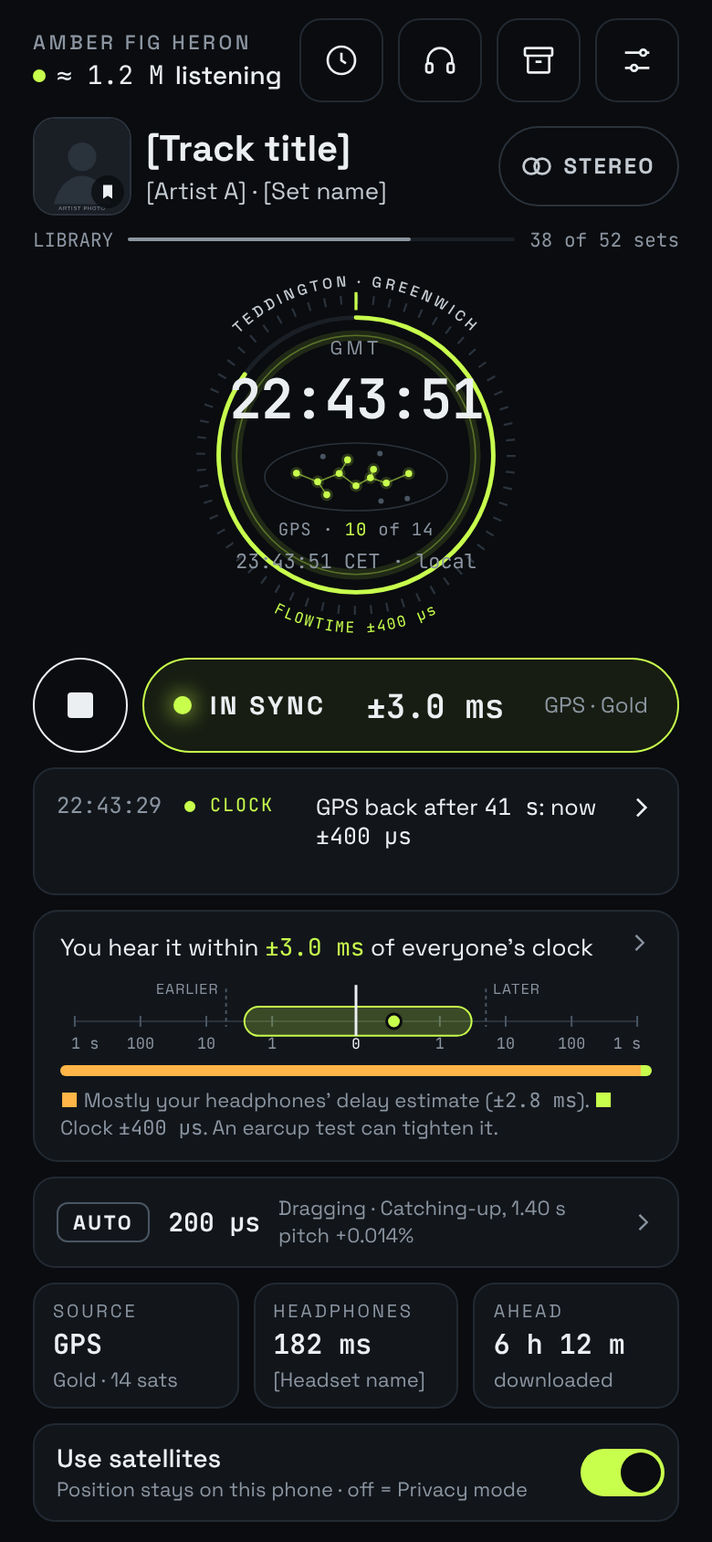
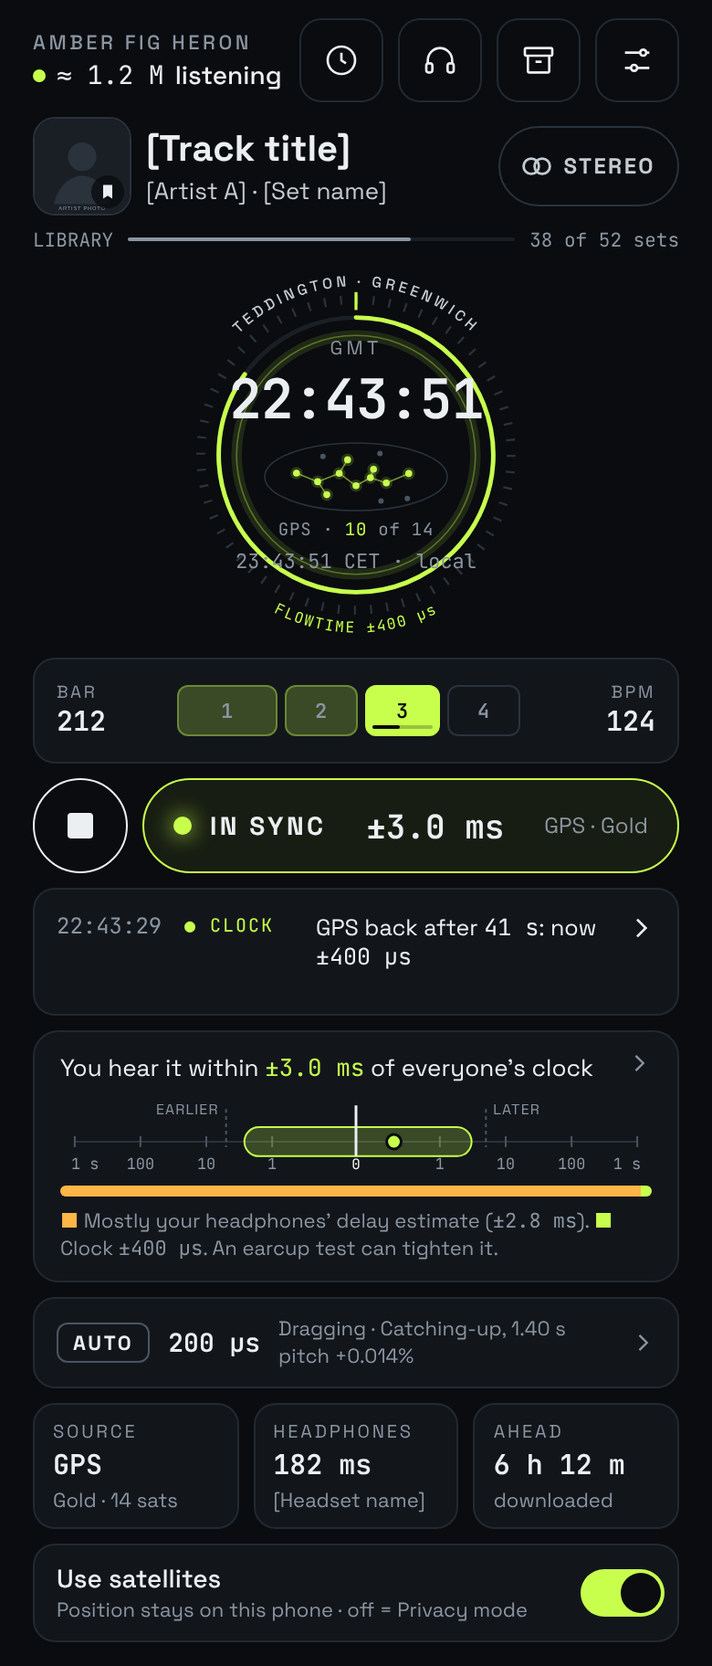
Design hand-off 25 from Claude Desktop: beat counter

diff --git a/design/screens/beat-states.html b/design/screens/beat-states.html
@@ -1,0 +1,23 @@
+<!doctype html>
+<html lang="en">
+<head>
+<meta charset="utf-8">
+<meta name="viewport" content="width=390">
+<title>Beat counter states · Beach Sync</title>
+<!-- Exported from the Beach Sync UI Mock-ups canvas. Static: tokens are in ../tokens.json, behaviour in ../ui-spec.md -->
+<link rel="stylesheet" href="https://fonts.googleapis.com/css2?family=JetBrains+Mono:wght@400;600&amp;family=Space+Grotesk:wght@400;500;700&amp;display=swap">
+<style>
+body{margin:0;background:#0A0C0F}
+a{color:#C8FF4D}a:hover{color:#E2FF9E}
+</style>
+</head>
+<body>
+<div style="width: 390px; height: 1440px; box-sizing: border-box; background: #0A0C0F; color: #ECEFF2; font-family: 'Space Grotesk', system-ui, sans-serif; padding: 16px 18px 18px; display: flex; flex-direction: column; gap: 12px; overflow: hidden">
+<div style="display: flex; flex-direction: column; gap: 2px"><span style="font-size: 11px; letter-spacing: 0.16em; color: #8B95A1; font-weight: 500">NOW PLAYING · BEAT COUNTER</span><span style="font-size: 18px; font-weight: 700">Bar, beat, tempo</span></div>
+<div style="background: #12161B; border: 1px solid #222932; border-radius: 14px; padding: 12px 14px; display: flex; flex-direction: column; gap: 6px"><span style="font-size: 10px; font-weight: 700; letter-spacing: 0.14em; color: #8B95A1">WHY IT’S HERE</span><span style="font-size: 12px; color: #C4CBD2; line-height: 1.4">The beats flip at the moment the sound reaches your ears (flowtime plus your headphones’ delay), not when the phone decodes it. So every phone in the crowd lights beat 1 together: a quick way to see the sync with your own eyes. Tap it to open Buffer, where the same beats sit under the waveform.</span></div>
+<div style="background: #12161B; border: 1px solid #222932; border-radius: 14px; padding: 10px 14px 4px; display: flex; flex-direction: column; gap: 0px"><span style="font-size: 10px; font-weight: 700; letter-spacing: 0.14em; color: #8B95A1">ONE BAR, AS IT PLAYS</span><div style="display: flex; flex-direction: column; gap: 6px; padding: 10px 0; border-bottom: 1px solid #1A1F26"><span style="font-size: 13px; font-weight: 600">Beat 1</span><a href="buffer.html" aria-label="Beat 1 of bar 213, 124 beats a minute. Open Buffer" style="text-decoration: none; color: #ECEFF2; min-height: 44px; display: flex; align-items: center; gap: 10px; background: #12161B; border: 1.5px solid #C8FF4D; border-radius: 12px; padding: 6px 12px; box-shadow: 0 0 0 3px rgba(200,255,77,0.14), 0 0 18px rgba(200,255,77,0.22)"><span style="display: flex; flex-direction: column; gap: 0; width: 56px"><span style="font-size: 9.5px; letter-spacing: 0.14em; color: #8B95A1">BAR</span><span style="font-family: 'JetBrains Mono', ui-monospace, monospace; font-size: 15px; font-weight: 600">213</span></span><span aria-hidden="true" style="display: grid; grid-template-columns: minmax(0, 1.35fr) minmax(0, 1fr) minmax(0, 1fr) minmax(0, 1fr); gap: 4px; flex: 1; min-width: 0"><span style="position: relative; height: 26px; border-radius: 6px; background: #C8FF4D; border: 1px solid #C8FF4D; display: flex; align-items: center; justify-content: center"><span style="font-family: 'JetBrains Mono', ui-monospace, monospace; font-size: 11px; font-weight: 600; color: #0A0C0F">1</span><span style="position: absolute; left: 3px; right: 3px; bottom: 3px; height: 2px; border-radius: 1px; background: rgba(10,12,15,0.25)"><span style="position: absolute; left: 0; top: 0; bottom: 0; width: 20%; background: #0A0C0F; border-radius: 1px"></span></span></span><span style="position: relative; height: 26px; border-radius: 6px; background: transparent; border: 1px solid #2A323C; display: flex; align-items: center; justify-content: center"><span style="font-family: 'JetBrains Mono', ui-monospace, monospace; font-size: 11px; font-weight: 600; color: #8B95A1">2</span></span><span style="position: relative; height: 26px; border-radius: 6px; background: transparent; border: 1px solid #2A323C; display: flex; align-items: center; justify-content: center"><span style="font-family: 'JetBrains Mono', ui-monospace, monospace; font-size: 11px; font-weight: 600; color: #8B95A1">3</span></span><span style="position: relative; height: 26px; border-radius: 6px; background: transparent; border: 1px solid #2A323C; display: flex; align-items: center; justify-content: center"><span style="font-family: 'JetBrains Mono', ui-monospace, monospace; font-size: 11px; font-weight: 600; color: #8B95A1">4</span></span></span><span style="display: flex; flex-direction: column; align-items: flex-end; width: 64px"><span style="font-size: 9.5px; letter-spacing: 0.14em; color: #8B95A1">BPM</span><span style="font-family: 'JetBrains Mono', ui-monospace, monospace; font-size: 15px; font-weight: 600">124</span></span></a><span style="font-size: 11px; color: #8B95A1; line-height: 1.4">The downbeat: wider cell, and the strip’s border flashes for 120 ms.</span></div><div style="display: flex; flex-direction: column; gap: 6px; padding: 10px 0; border-bottom: 1px solid #1A1F26"><span style="font-size: 13px; font-weight: 600">Beat 2</span><a href="buffer.html" aria-label="Beat 2 of bar 213, 124 beats a minute. Open Buffer" style="text-decoration: none; color: #ECEFF2; min-height: 44px; display: flex; align-items: center; gap: 10px; background: #12161B; border: 1px solid #222932; border-radius: 12px; padding: 6px 12px"><span style="display: flex; flex-direction: column; gap: 0; width: 56px"><span style="font-size: 9.5px; letter-spacing: 0.14em; color: #8B95A1">BAR</span><span style="font-family: 'JetBrains Mono', ui-monospace, monospace; font-size: 15px; font-weight: 600">213</span></span><span aria-hidden="true" style="display: grid; grid-template-columns: minmax(0, 1.35fr) minmax(0, 1fr) minmax(0, 1fr) minmax(0, 1fr); gap: 4px; flex: 1; min-width: 0"><span style="position: relative; height: 26px; border-radius: 6px; background: rgba(200,255,77,0.22); border: 1px solid rgba(200,255,77,0.35); display: flex; align-items: center; justify-content: center"><span style="font-family: 'JetBrains Mono', ui-monospace, monospace; font-size: 11px; font-weight: 600; color: #8B95A1">1</span></span><span style="position: relative; height: 26px; border-radius: 6px; background: #C8FF4D; border: 1px solid #C8FF4D; display: flex; align-items: center; justify-content: center"><span style="font-family: 'JetBrains Mono', ui-monospace, monospace; font-size: 11px; font-weight: 600; color: #0A0C0F">2</span><span style="position: absolute; left: 3px; right: 3px; bottom: 3px; height: 2px; border-radius: 1px; background: rgba(10,12,15,0.25)"><span style="position: absolute; left: 0; top: 0; bottom: 0; width: 60%; background: #0A0C0F; border-radius: 1px"></span></span></span><span style="position: relative; height: 26px; border-radius: 6px; background: transparent; border: 1px solid #2A323C; display: flex; align-items: center; justify-content: center"><span style="font-family: 'JetBrains Mono', ui-monospace, monospace; font-size: 11px; font-weight: 600; color: #8B95A1">3</span></span><span style="position: relative; height: 26px; border-radius: 6px; background: transparent; border: 1px solid #2A323C; display: flex; align-items: center; justify-content: center"><span style="font-family: 'JetBrains Mono', ui-monospace, monospace; font-size: 11px; font-weight: 600; color: #8B95A1">4</span></span></span><span style="display: flex; flex-direction: column; align-items: flex-end; width: 64px"><span style="font-size: 9.5px; letter-spacing: 0.14em; color: #8B95A1">BPM</span><span style="font-family: 'JetBrains Mono', ui-monospace, monospace; font-size: 15px; font-weight: 600">124</span></span></a><span style="font-size: 11px; color: #8B95A1; line-height: 1.4">Beats already played this bar stay faintly lit; the next downbeat cell keeps an accent outline.</span></div><div style="display: flex; flex-direction: column; gap: 6px; padding: 10px 0; border-bottom: 1px solid #1A1F26"><span style="font-size: 13px; font-weight: 600">Beat 4</span><a href="buffer.html" aria-label="Beat 4 of bar 213, 124 beats a minute. Open Buffer" style="text-decoration: none; color: #ECEFF2; min-height: 44px; display: flex; align-items: center; gap: 10px; background: #12161B; border: 1px solid #222932; border-radius: 12px; padding: 6px 12px"><span style="display: flex; flex-direction: column; gap: 0; width: 56px"><span style="font-size: 9.5px; letter-spacing: 0.14em; color: #8B95A1">BAR</span><span style="font-family: 'JetBrains Mono', ui-monospace, monospace; font-size: 15px; font-weight: 600">213</span></span><span aria-hidden="true" style="display: grid; grid-template-columns: minmax(0, 1.35fr) minmax(0, 1fr) minmax(0, 1fr) minmax(0, 1fr); gap: 4px; flex: 1; min-width: 0"><span style="position: relative; height: 26px; border-radius: 6px; background: rgba(200,255,77,0.22); border: 1px solid rgba(200,255,77,0.35); display: flex; align-items: center; justify-content: center"><span style="font-family: 'JetBrains Mono', ui-monospace, monospace; font-size: 11px; font-weight: 600; color: #8B95A1">1</span></span><span style="position: relative; height: 26px; border-radius: 6px; background: rgba(200,255,77,0.22); border: 1px solid rgba(200,255,77,0.35); display: flex; align-items: center; justify-content: center"><span style="font-family: 'JetBrains Mono', ui-monospace, monospace; font-size: 11px; font-weight: 600; color: #8B95A1">2</span></span><span style="position: relative; height: 26px; border-radius: 6px; background: rgba(200,255,77,0.22); border: 1px solid rgba(200,255,77,0.35); display: flex; align-items: center; justify-content: center"><span style="font-family: 'JetBrains Mono', ui-monospace, monospace; font-size: 11px; font-weight: 600; color: #8B95A1">3</span></span><span style="position: relative; height: 26px; border-radius: 6px; background: #C8FF4D; border: 1px solid #C8FF4D; display: flex; align-items: center; justify-content: center"><span style="font-family: 'JetBrains Mono', ui-monospace, monospace; font-size: 11px; font-weight: 600; color: #0A0C0F">4</span><span style="position: absolute; left: 3px; right: 3px; bottom: 3px; height: 2px; border-radius: 1px; background: rgba(10,12,15,0.25)"><span style="position: absolute; left: 0; top: 0; bottom: 0; width: 90%; background: #0A0C0F; border-radius: 1px"></span></span></span></span><span style="display: flex; flex-direction: column; align-items: flex-end; width: 64px"><span style="font-size: 9.5px; letter-spacing: 0.14em; color: #8B95A1">BPM</span><span style="font-family: 'JetBrains Mono', ui-monospace, monospace; font-size: 15px; font-weight: 600">124</span></span></a><span style="font-size: 11px; color: #8B95A1; line-height: 1.4">The dark line inside the lit cell is the beat’s phase: how far to the next beat.</span></div></div>
+<div style="background: #12161B; border: 1px solid #222932; border-radius: 14px; padding: 10px 14px 4px; display: flex; flex-direction: column; gap: 0px"><span style="font-size: 10px; font-weight: 700; letter-spacing: 0.14em; color: #8B95A1">STATES</span><div style="display: flex; flex-direction: column; gap: 6px; padding: 10px 0; border-bottom: 1px solid #1A1F26"><span style="font-size: 13px; font-weight: 600">Working out the beats</span><a href="buffer.html" aria-label="Beat counter: working out the beats for this set, 62 percent" style="text-decoration: none; color: #ECEFF2; min-height: 44px; display: flex; align-items: center; gap: 10px; background: #12161B; border: 1px solid #222932; border-radius: 12px; padding: 6px 12px"><span style="display: flex; flex-direction: column; gap: 0; width: 56px"><span style="font-size: 9.5px; letter-spacing: 0.14em; color: #8B95A1">BEATS</span><span style="font-family: 'JetBrains Mono', ui-monospace, monospace; font-size: 15px; font-weight: 600; color: #8B95A1">62%</span></span><span aria-hidden="true" style="display: grid; grid-template-columns: minmax(0, 1.35fr) minmax(0, 1fr) minmax(0, 1fr) minmax(0, 1fr); gap: 4px; flex: 1; min-width: 0"><span style="position: relative; height: 26px; border-radius: 6px; border: 1px dashed #4A5562; background: transparent; display: flex; align-items: center; justify-content: center"><span style="font-family: 'JetBrains Mono', ui-monospace, monospace; font-size: 11px; font-weight: 600; color: #4A5562">1</span></span><span style="position: relative; height: 26px; border-radius: 6px; border: 1px dashed #4A5562; background: transparent; display: flex; align-items: center; justify-content: center"><span style="font-family: 'JetBrains Mono', ui-monospace, monospace; font-size: 11px; font-weight: 600; color: #4A5562">2</span></span><span style="position: relative; height: 26px; border-radius: 6px; border: 1px dashed #4A5562; background: transparent; display: flex; align-items: center; justify-content: center"><span style="font-family: 'JetBrains Mono', ui-monospace, monospace; font-size: 11px; font-weight: 600; color: #4A5562">3</span></span><span style="position: relative; height: 26px; border-radius: 6px; border: 1px dashed #4A5562; background: transparent; display: flex; align-items: center; justify-content: center"><span style="font-family: 'JetBrains Mono', ui-monospace, monospace; font-size: 11px; font-weight: 600; color: #4A5562">4</span></span></span><span style="font-size: 11px; color: #8B95A1; width: 64px; text-align: right; line-height: 1.2">working them out</span></a><span style="font-size: 11px; color: #8B95A1; line-height: 1.4">After a set downloads, the phone works out its beat grid. Cells dashed, percent shown. Nothing pretends to tick.</span></div><div style="display: flex; flex-direction: column; gap: 6px; padding: 10px 0; border-bottom: 1px solid #1A1F26"><span style="font-size: 13px; font-weight: 600">No steady beat</span><a href="buffer.html" aria-label="Beat counter: no steady beat in this part" style="text-decoration: none; color: #ECEFF2; min-height: 44px; display: flex; align-items: center; gap: 10px; background: #12161B; border: 1px solid #222932; border-radius: 12px; padding: 6px 12px"><span style="display: flex; flex-direction: column; gap: 0; width: 56px"><span style="font-size: 9.5px; letter-spacing: 0.14em; color: #8B95A1">BAR</span><span style="font-family: 'JetBrains Mono', ui-monospace, monospace; font-size: 15px; font-weight: 600; color: #8B95A1">—</span></span><span aria-hidden="true" style="display: grid; grid-template-columns: minmax(0, 1.35fr) minmax(0, 1fr) minmax(0, 1fr) minmax(0, 1fr); gap: 4px; flex: 1; min-width: 0"><span style="position: relative; height: 26px; border-radius: 6px; border: 1px dashed #4A5562; background: transparent; display: flex; align-items: center; justify-content: center"><span style="font-family: 'JetBrains Mono', ui-monospace, monospace; font-size: 11px; font-weight: 600; color: #4A5562">1</span></span><span style="position: relative; height: 26px; border-radius: 6px; border: 1px dashed #4A5562; background: transparent; display: flex; align-items: center; justify-content: center"><span style="font-family: 'JetBrains Mono', ui-monospace, monospace; font-size: 11px; font-weight: 600; color: #4A5562">2</span></span><span style="position: relative; height: 26px; border-radius: 6px; border: 1px dashed #4A5562; background: transparent; display: flex; align-items: center; justify-content: center"><span style="font-family: 'JetBrains Mono', ui-monospace, monospace; font-size: 11px; font-weight: 600; color: #4A5562">3</span></span><span style="position: relative; height: 26px; border-radius: 6px; border: 1px dashed #4A5562; background: transparent; display: flex; align-items: center; justify-content: center"><span style="font-family: 'JetBrains Mono', ui-monospace, monospace; font-size: 11px; font-weight: 600; color: #4A5562">4</span></span></span><span style="font-size: 11px; color: #8B95A1; width: 64px; text-align: right; line-height: 1.2">no steady beat</span></a><span style="font-size: 11px; color: #8B95A1; line-height: 1.4">Ambient intros, breakdowns, speech. The counter waits and comes back on the first downbeat.</span></div><div style="display: flex; flex-direction: column; gap: 6px; padding: 10px 0; border-bottom: 1px solid #1A1F26"><span style="font-size: 13px; font-weight: 600">Tempo change</span><a href="buffer.html" aria-label="Beat 2 of bar 57, 126 beats a minute. Open Buffer" style="text-decoration: none; color: #ECEFF2; min-height: 44px; display: flex; align-items: center; gap: 10px; background: #12161B; border: 1px solid #222932; border-radius: 12px; padding: 6px 12px"><span style="display: flex; flex-direction: column; gap: 0; width: 56px"><span style="font-size: 9.5px; letter-spacing: 0.14em; color: #8B95A1">BAR</span><span style="font-family: 'JetBrains Mono', ui-monospace, monospace; font-size: 15px; font-weight: 600">57</span></span><span aria-hidden="true" style="display: grid; grid-template-columns: minmax(0, 1.35fr) minmax(0, 1fr) minmax(0, 1fr) minmax(0, 1fr); gap: 4px; flex: 1; min-width: 0"><span style="position: relative; height: 26px; border-radius: 6px; background: rgba(200,255,77,0.22); border: 1px solid rgba(200,255,77,0.35); display: flex; align-items: center; justify-content: center"><span style="font-family: 'JetBrains Mono', ui-monospace, monospace; font-size: 11px; font-weight: 600; color: #8B95A1">1</span></span><span style="position: relative; height: 26px; border-radius: 6px; background: #C8FF4D; border: 1px solid #C8FF4D; display: flex; align-items: center; justify-content: center"><span style="font-family: 'JetBrains Mono', ui-monospace, monospace; font-size: 11px; font-weight: 600; color: #0A0C0F">2</span><span style="position: absolute; left: 3px; right: 3px; bottom: 3px; height: 2px; border-radius: 1px; background: rgba(10,12,15,0.25)"><span style="position: absolute; left: 0; top: 0; bottom: 0; width: 30%; background: #0A0C0F; border-radius: 1px"></span></span></span><span style="position: relative; height: 26px; border-radius: 6px; background: transparent; border: 1px solid #2A323C; display: flex; align-items: center; justify-content: center"><span style="font-family: 'JetBrains Mono', ui-monospace, monospace; font-size: 11px; font-weight: 600; color: #8B95A1">3</span></span><span style="position: relative; height: 26px; border-radius: 6px; background: transparent; border: 1px solid #2A323C; display: flex; align-items: center; justify-content: center"><span style="font-family: 'JetBrains Mono', ui-monospace, monospace; font-size: 11px; font-weight: 600; color: #8B95A1">4</span></span></span><span style="display: flex; flex-direction: column; align-items: flex-end; width: 64px"><span style="font-size: 9.5px; letter-spacing: 0.14em; color: #8B95A1">BPM</span><span style="font-family: 'JetBrains Mono', ui-monospace, monospace; font-size: 15px; font-weight: 600"><span style="color: #C8FF4D">126</span></span></span></a><span style="font-size: 11px; color: #8B95A1; line-height: 1.4">The new BPM shows in accent for one bar, then goes white.</span></div><div style="display: flex; flex-direction: column; gap: 6px; padding: 10px 0; border-bottom: 1px solid #1A1F26"><span style="font-size: 13px; font-weight: 600">New set</span><a href="buffer.html" aria-label="Beat 1 of bar 1, 120 beats a minute. Open Buffer" style="text-decoration: none; color: #ECEFF2; min-height: 44px; display: flex; align-items: center; gap: 10px; background: #12161B; border: 1.5px solid #C8FF4D; border-radius: 12px; padding: 6px 12px; box-shadow: 0 0 0 3px rgba(200,255,77,0.14), 0 0 18px rgba(200,255,77,0.22)"><span style="display: flex; flex-direction: column; gap: 0; width: 56px"><span style="font-size: 9.5px; letter-spacing: 0.14em; color: #8B95A1">BAR</span><span style="font-family: 'JetBrains Mono', ui-monospace, monospace; font-size: 15px; font-weight: 600">1</span></span><span aria-hidden="true" style="display: grid; grid-template-columns: minmax(0, 1.35fr) minmax(0, 1fr) minmax(0, 1fr) minmax(0, 1fr); gap: 4px; flex: 1; min-width: 0"><span style="position: relative; height: 26px; border-radius: 6px; background: #C8FF4D; border: 1px solid #C8FF4D; display: flex; align-items: center; justify-content: center"><span style="font-family: 'JetBrains Mono', ui-monospace, monospace; font-size: 11px; font-weight: 600; color: #0A0C0F">1</span><span style="position: absolute; left: 3px; right: 3px; bottom: 3px; height: 2px; border-radius: 1px; background: rgba(10,12,15,0.25)"><span style="position: absolute; left: 0; top: 0; bottom: 0; width: 10%; background: #0A0C0F; border-radius: 1px"></span></span></span><span style="position: relative; height: 26px; border-radius: 6px; background: transparent; border: 1px solid #2A323C; display: flex; align-items: center; justify-content: center"><span style="font-family: 'JetBrains Mono', ui-monospace, monospace; font-size: 11px; font-weight: 600; color: #8B95A1">2</span></span><span style="position: relative; height: 26px; border-radius: 6px; background: transparent; border: 1px solid #2A323C; display: flex; align-items: center; justify-content: center"><span style="font-family: 'JetBrains Mono', ui-monospace, monospace; font-size: 11px; font-weight: 600; color: #8B95A1">3</span></span><span style="position: relative; height: 26px; border-radius: 6px; background: transparent; border: 1px solid #2A323C; display: flex; align-items: center; justify-content: center"><span style="font-family: 'JetBrains Mono', ui-monospace, monospace; font-size: 11px; font-weight: 600; color: #8B95A1">4</span></span></span><span style="display: flex; flex-direction: column; align-items: flex-end; width: 64px"><span style="font-size: 9.5px; letter-spacing: 0.14em; color: #8B95A1">BPM</span><span style="font-family: 'JetBrains Mono', ui-monospace, monospace; font-size: 15px; font-weight: 600">120</span></span></a><span style="font-size: 11px; color: #8B95A1; line-height: 1.4">Bars count from the start of each set, so a new set starts at bar 1.</span></div><div style="display: flex; flex-direction: column; gap: 6px; padding: 10px 0; border-bottom: 1px solid #1A1F26"><span style="font-size: 13px; font-weight: 600">Reduced motion</span><a href="buffer.html" aria-label="Beat 3 of bar 213, 124 beats a minute. Open Buffer" style="text-decoration: none; color: #ECEFF2; min-height: 44px; display: flex; align-items: center; gap: 10px; background: #12161B; border: 1px solid #222932; border-radius: 12px; padding: 6px 12px"><span style="display: flex; flex-direction: column; gap: 0; width: 56px"><span style="font-size: 9.5px; letter-spacing: 0.14em; color: #8B95A1">BAR</span><span style="font-family: 'JetBrains Mono', ui-monospace, monospace; font-size: 15px; font-weight: 600">213</span></span><span aria-hidden="true" style="display: grid; grid-template-columns: minmax(0, 1.35fr) minmax(0, 1fr) minmax(0, 1fr) minmax(0, 1fr); gap: 4px; flex: 1; min-width: 0"><span style="position: relative; height: 26px; border-radius: 6px; background: rgba(200,255,77,0.22); border: 1px solid rgba(200,255,77,0.35); display: flex; align-items: center; justify-content: center"><span style="font-family: 'JetBrains Mono', ui-monospace, monospace; font-size: 11px; font-weight: 600; color: #8B95A1">1</span></span><span style="position: relative; height: 26px; border-radius: 6px; background: rgba(200,255,77,0.22); border: 1px solid rgba(200,255,77,0.35); display: flex; align-items: center; justify-content: center"><span style="font-family: 'JetBrains Mono', ui-monospace, monospace; font-size: 11px; font-weight: 600; color: #8B95A1">2</span></span><span style="position: relative; height: 26px; border-radius: 6px; background: #C8FF4D; border: 1px solid #C8FF4D; display: flex; align-items: center; justify-content: center"><span style="font-family: 'JetBrains Mono', ui-monospace, monospace; font-size: 11px; font-weight: 600; color: #0A0C0F">3</span></span><span style="position: relative; height: 26px; border-radius: 6px; background: transparent; border: 1px solid #2A323C; display: flex; align-items: center; justify-content: center"><span style="font-family: 'JetBrains Mono', ui-monospace, monospace; font-size: 11px; font-weight: 600; color: #8B95A1">4</span></span></span><span style="display: flex; flex-direction: column; align-items: flex-end; width: 64px"><span style="font-size: 9.5px; letter-spacing: 0.14em; color: #8B95A1">BPM</span><span style="font-family: 'JetBrains Mono', ui-monospace, monospace; font-size: 15px; font-weight: 600">124</span></span></a><span style="font-size: 11px; color: #8B95A1; line-height: 1.4">No border flash and no phase line; the lit cell just steps.</span></div></div>
+<span style="font-size: 11px; color: #8B95A1; line-height: 1.4">Minimal level: hidden. Reduced level: updates on the beat only, no phase line.</span>
+</div>
+</body>
+</html>

diff --git a/design/screens/now-playing.html b/design/screens/now-playing.html
@@ -12,7 +12,7 @@ a{color:#C8FF4D}a:hover{color:#E2FF9E}
 </style>
 </head>
 <body>
-<div style="width: 390px; height: 844px; box-sizing: border-box; background: #0A0C0F; color: #ECEFF2; font-family: 'Space Grotesk', system-ui, sans-serif; padding: 10px 18px 10px; display: flex; flex-direction: column; gap: 8px; overflow: hidden">
+<div style="width: 390px; height: 912px; box-sizing: border-box; background: #0A0C0F; color: #ECEFF2; font-family: 'Space Grotesk', system-ui, sans-serif; padding: 10px 18px 10px; display: flex; flex-direction: column; gap: 8px; overflow: hidden">
 
   <div style="display: flex; justify-content: space-between; align-items: center">
     <a href="swarm.html" aria-label="You are Amber Fig Heron. About 1.2 million listening, estimated to within 3 percent. Open Swarm" style="text-decoration: none; color: #ECEFF2; min-height: 44px; display: flex; flex-direction: column; justify-content: center; gap: 2px; min-width: 0">
@@ -74,6 +74,7 @@ a{color:#C8FF4D}a:hover{color:#E2FF9E}
     </div>
   </div>
 
+  <a href="buffer.html" aria-label="Beat 3 of bar 212, 124 beats a minute. Open Buffer" style="text-decoration: none; color: #ECEFF2; min-height: 44px; display: flex; align-items: center; gap: 10px; background: #12161B; border: 1px solid #222932; border-radius: 12px; padding: 6px 12px"><span style="display: flex; flex-direction: column; gap: 0; width: 56px"><span style="font-size: 9.5px; letter-spacing: 0.14em; color: #8B95A1">BAR</span><span style="font-family: 'JetBrains Mono', ui-monospace, monospace; font-size: 15px; font-weight: 600">212</span></span><span aria-hidden="true" style="display: grid; grid-template-columns: minmax(0, 1.35fr) minmax(0, 1fr) minmax(0, 1fr) minmax(0, 1fr); gap: 4px; flex: 1; min-width: 0"><span style="position: relative; height: 26px; border-radius: 6px; background: rgba(200,255,77,0.22); border: 1px solid rgba(200,255,77,0.35); display: flex; align-items: center; justify-content: center"><span style="font-family: 'JetBrains Mono', ui-monospace, monospace; font-size: 11px; font-weight: 600; color: #8B95A1">1</span></span><span style="position: relative; height: 26px; border-radius: 6px; background: rgba(200,255,77,0.22); border: 1px solid rgba(200,255,77,0.35); display: flex; align-items: center; justify-content: center"><span style="font-family: 'JetBrains Mono', ui-monospace, monospace; font-size: 11px; font-weight: 600; color: #8B95A1">2</span></span><span style="position: relative; height: 26px; border-radius: 6px; background: #C8FF4D; border: 1px solid #C8FF4D; display: flex; align-items: center; justify-content: center"><span style="font-family: 'JetBrains Mono', ui-monospace, monospace; font-size: 11px; font-weight: 600; color: #0A0C0F">3</span><span style="position: absolute; left: 3px; right: 3px; bottom: 3px; height: 2px; border-radius: 1px; background: rgba(10,12,15,0.25)"><span style="position: absolute; left: 0; top: 0; bottom: 0; width: 45%; background: #0A0C0F; border-radius: 1px"></span></span></span><span style="position: relative; height: 26px; border-radius: 6px; background: transparent; border: 1px solid #2A323C; display: flex; align-items: center; justify-content: center"><span style="font-family: 'JetBrains Mono', ui-monospace, monospace; font-size: 11px; font-weight: 600; color: #8B95A1">4</span></span></span><span style="display: flex; flex-direction: column; align-items: flex-end; width: 64px"><span style="font-size: 9.5px; letter-spacing: 0.14em; color: #8B95A1">BPM</span><span style="font-family: 'JetBrains Mono', ui-monospace, monospace; font-size: 15px; font-weight: 600">124</span></span></a>
   <div style="display: flex; gap: 8px; align-items: stretch">
   <button aria-label="Stop" style="appearance: none; width: 52px; height: 52px; flex: none; border-radius: 50%; border: 1.5px solid #ECEFF2; background: transparent; display: flex; align-items: center; justify-content: center; cursor: pointer"><span style="width: 14px; height: 14px; border-radius: 2px; background: #ECEFF2"></span></button>
   <button aria-label="Sync status: in sync, plus or minus 3.0 milliseconds. Open sync error budget" style="appearance: none; flex: 1; min-width: 0; display: flex; align-items: center; justify-content: space-between; gap: 12px; padding: 12px 16px; min-height: 52px; border-radius: 999px; border: 1.5px solid #C8FF4D; background: rgba(200, 255, 77, 0.07); color: #ECEFF2; font-family: inherit; cursor: pointer">

diff --git a/design/ui-spec.md b/design/ui-spec.md
@@ -1,4 +1,4 @@
-# UI spec (hand-off 24)
+# UI spec (hand-off 25)
 
 Field names come from Claude Code's "Fields that exist today" table in `feedback.md`, as of 1 Nov 2026. If one has been renamed since, use the new name.
 
@@ -37,6 +37,7 @@ Field names come from Claude Code's "Fields that exist today" table in `feedback
 | Seconds sweep | The outer accent arc fills once per flowtime **minute**, like a second hand | Seconds of the current minute | Steps once a second at Reduced level | now |
 | Time-source pictogram | **Satellites:** a mini constellation: the sky squashed into a small ellipse, one dot per satellite in view, lit in accent for each one in use, the ones in use joined by faint lines (the same shortest-path pattern as the Satellites screen), no labels; then `GPS · 10 of 14`. Tapping it opens Satellites. **Hold:** an accent hourglass beside the same sky gone dark, `HOLDING · 41 s`. **NTP:** a cell tower with radio waves, `NTP · stratum 1` (Privacy mode shows this one). **First second:** the tower with dashed waves, `NTP · getting time`, until the first fit (never a 'no time' state). | `FlowTime.chosen`, `GpsTime.used`, `seen`, `lastBoot`, `NtpClient.stratum`; per-satellite positions **later** (until then, place dots evenly) | Updates once a second | partly |
 | Precision ring | A glow whose width shows the sync error on the budget's log scale; its figure is on the bottom bezel | Sync error | | now |
+| Beat counter (user, 7 Nov) | A 44 px strip **under the clock**: `BAR 212` left, four beat cells, `BPM 124` right (mono). Beat 1's cell is wider and keeps an accent outline. The current beat's cell is filled accent, with a dark line inside it filling as the beat's phase runs to the next beat; beats already played this bar stay faintly lit. On beat 1 the strip's border flashes accent for 120 ms. Beats change when the sound **reaches your ears** (flowtime plus output lag), so every phone in a crowd lights beat 1 together. States: Working out the beats (dashed cells, `BEATS 62%`), No steady beat (`—`, dashed), Tempo change (new BPM in accent for one bar), New set (bar 1). | `SetBeats`: bar from set start, beat 1–4, bpm, beat phase; per set, after download | Tap opens Buffer. Reduced motion: no flash, no phase line, the cell steps. Reduced level: updates on the beat only. Minimal: hidden. | now (after analysis) |
 | Play control and sync badge | A 52 px round button left of the badge: **Stop** (a white square, outlined) while playing; **Play** (an accent-filled circle with a dark triangle) when stopped; dashed and disabled while the set due now is downloading. The badge shows words, the ± figure and the source. | See Badge states | Play starts in sync at once. Tapping the badge opens the error budget detail. | now |
 | Latest event | Time, lane mark and name, and the event text, **directly under the badge**. The text wraps onto as many lines as it needs, with no ellipsis, and the row grows (the user's decision, 2 Nov). | `EventLog.latest()` | Tapping opens the Event log. A banner elsewhere links to its own event. | now |
 | Sync card (replaces the error budget, user's request 3 Nov) | **Headline:** `You hear it within ±3.0 ms of everyone's clock` (the badge figure, accent). **Window:** a signed log line from 1 s earlier to 1 s later around the Brocast clock (marks at 1, 10, 100 ms and 1 s each side, knee at 100 µs; `0` at the centre) (a white tick, `BROCAST CLOCK`); an accent band shows where this phone's sound most likely is (centred on the held gap, here 200 µs later, half-width √(clock² + delay estimate²)); a dot marks the centre; dashed lines at ±5 ms mark a typical event limit, labelled `EARLIER` and `LATER`. **What makes up the ±:** one bar split by each part's share of the total (squared), output delay estimate in amber, clock in accent, then one sentence naming the largest part and what would tighten it (`Mostly your headphones' delay estimate (±2.8 ms). Clock ±400 µs. An earcup test can tighten it.`). The output word follows the output in use. | Badge figure; `errAt`; Calibration ±; `NudgeControl.gapAt` | The whole card opens Time signals for the detail. | partly |
@@ -439,6 +440,12 @@ From `docs/keys.md` (pears-spike branch). Runs once, before First use · sharing
 ![](screens/id-desktop.png)
 
 The same six steps as a left rail, the step in the middle, sources on the right. Gathering: a mouse-and-typing pad (`Only the timing is used, never the keys`; `1,204 moves · 37 keys · 3.4 KB`). Sources: system generator, engine, CPU and disk timing jitter, battery (laptops), mouse timing, key timing; microphone and webcam opt-in from the browser control page with the browser's prompt. The browser control page uses the same layout.
+
+## Beat counter states
+
+![](screens/beat-states.png)
+
+One bar as it plays (beats 1, 2, 4), then: working out the beats, no steady beat, tempo change, new set, reduced motion. Rules are in the Now playing table.
 
 ## Badge states
 

diff --git a/design/handoff-25.md b/design/handoff-25.md
@@ -1,0 +1,11 @@
+# Hand-off 25 (7 Nov 2026): Beat counter
+
+Your 14:20 ASK: a beat counter on Now playing, from `SetBeats.kt`.
+
+| Item | Change | Needs code? |
+|---|---|---|
+| `screens/now-playing` | Beat strip under the clock: BAR, four beat cells (beat 1 wider), BPM, phase line in the lit cell, border flash on beat 1. Board is now 912 tall (fits a Pixel 10's 915 dp; scrolls on shorter phones). Tap opens Buffer. | yes |
+| `screens/beat-states` | **New.** One bar as it plays; working out the beats (percent), no steady beat, tempo change, new set, reduced motion. | yes |
+| `ui-spec.md` | New Now playing row: Beat counter; new section Beat counter states. | — |
+
+Timing: switch beats at flowtime + output lag (when the listener hears it), on the display frame, so phones agree visually. Needs: analysis progress percent, and a "no steady beat" flag per region from SetBeats.
